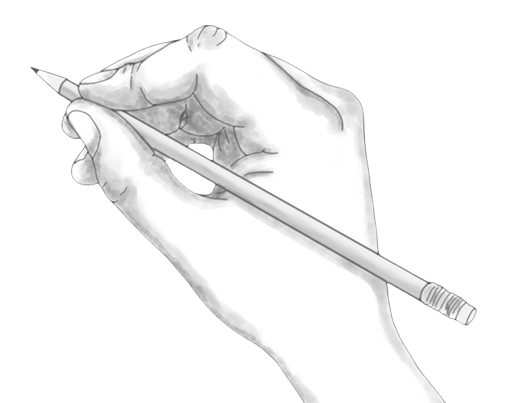
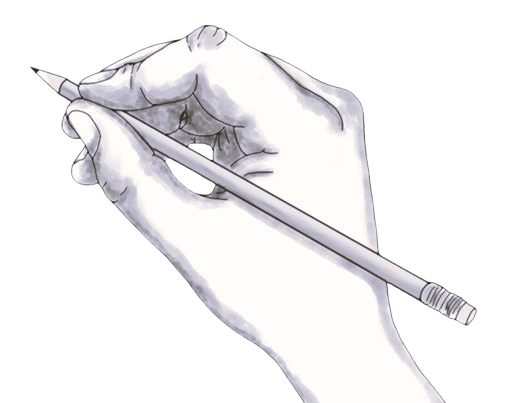
Update project images and styles for improved display and responsiveness

diff --git a/styles.css b/styles.css
@@ -474,16 +474,23 @@ a.project-card, a.project-card * {
     flex: 1;
 }
 
-.project-card:nth-child(1) .project-date {
-    padding: 0;
-    margin: 0;
-    white-space: nowrap;
+.project-card:nth-child(1) .project-image {
+    /* Preserve the image aspect ratio and avoid squashing.
+       Use background-size: contain and a padding-top to set an aspect ratio (16:9).
+       The image will be centered and won't be stretched. */
+    background-image: url('assets/images/caméra%20qui%20filme.jpg');
+    background-size: contain;
+    background-position: center center;
+    background-repeat: no-repeat;
+    color: #06b6d4;
+    width: 100%;
+    height: auto;
+    padding-top: 56.25%; /* 16:9 ratio to avoid squash */
+    max-height: 60vh;
+    display: flex;
+    align-items: center;
+    justify-content: center;
 }
-
-.project-card:nth-child(1) p {
-    color: #1e293b;
-}
-
 .project-card:hover {
     transform: translateY(-10px);
     box-shadow: var(--shadow-lg);
@@ -614,8 +621,8 @@ a.project-card, a.project-card * {
 
 .project-image {
     width: 100%;
-    height: 300px;
-    max-height: 45vh;
+    height: 220px;
+    max-height: 35vh;
     background: linear-gradient(135deg, rgba(var(--primary-rgb), 0.2), rgba(var(--accent-rgb), 0.2));
     display: flex;
     align-items: center;
@@ -644,8 +651,17 @@ a.project-card, a.project-card * {
 }
 
 .project-card:nth-child(1) .project-image {
-    background: url('assets/images/caméra%20qui%20filme.jpg') center/cover no-repeat;
+    /* Show the ALC image fully without cropping; keep a compact height
+       using a width-based aspect container (padding-top). */
+    background-image: url('assets/images/caméra%20qui%20filme.jpg');
+    background-repeat: no-repeat;
+    background-position: center;
+    background-size: contain;
     color: #06b6d4;
+    /* Use a compact aspect-ratio container so the image isn't too tall */
+    height: auto;
+    max-height: none;
+    padding-top: 32%;
 }
 
 .project-card:nth-child(2) {
@@ -680,25 +696,21 @@ a.project-card, a.project-card * {
 }
 
 .project-card:nth-child(2) .project-image {
-    /* Use the same frame as other project images; image placed via <img> inside.
-       Keep background-color but remove background-image to avoid overlap. */
-    background: none;
-    background-color: rgba(var(--primary-rgb), 0.08);
-    height: 300px; /* same height as default .project-image */
+    /* Use a single background-image like the ALC card (no colored square). */
+    background-image: url('assets/images/TITLE.png');
+    background-repeat: no-repeat;
+    background-position: center;
+    background-size: contain;
     color: var(--primary-color);
+    height: auto;
+    max-height: none;
+    padding-top: 32%;
     overflow: hidden;
 }
 
 /* Ensure the inline image fills the project-image box and is cropped from the top */
 .project-card:nth-child(2) .project-image img {
-    width: 100% !important;
-    height: 100% !important;
-    /* Fill the entire .project-image frame while keeping aspect ratio; crop if necessary */
-    object-fit: cover;
-    object-position: top center;
-    display: block;
-    transform: none;
-    will-change: auto;
+    display: none !important; /* background-image used instead for full, un-cropped display */
 }
 
 .project-card:nth-child(3) {
@@ -736,8 +748,15 @@ a.project-card, a.project-card * {
 }
 
 .project-card:nth-child(3) .project-image {
-    background: linear-gradient(135deg, rgba(196, 132, 252, 0.5), rgba(167, 139, 250, 0.5));
+    /* Subtle decorative gradient placed behind the image so colors remain natural */
+    background-image: url('assets/images/drawing_hand.png'), linear-gradient(135deg, rgba(196, 132, 252, 0.06), rgba(167, 139, 250, 0.06));
+    background-repeat: no-repeat, no-repeat;
+    background-position: center, center;
+    background-size: contain, cover;
     color: #c084fc;
+    height: auto;
+    max-height: none;
+    padding-top: 32%;
 }
 
 .project-card:nth-child(4) {
@@ -845,7 +864,7 @@ a.project-card, a.project-card * {
 .project-card p {
     padding: 1rem 1.5rem;
     color: var(--text-light);
-    font-size: 0.95rem;
+    font-size: 1.15rem;
 }
 
 .project-tags {
@@ -853,6 +872,39 @@ a.project-card, a.project-card * {
     display: flex;
     flex-wrap: wrap;
     gap: 0.5rem;
+}
+
+/* Center headers, dates, tags and description text inside project cards */
+.project-card .project-header {
+    display: flex;
+    flex-direction: column;
+    align-items: center;
+    justify-content: center;
+    text-align: center;
+    gap: 0.4rem;
+    padding: 1rem 1.5rem;
+}
+
+.project-date {
+    display: flex;
+    align-items: center;
+    justify-content: center;
+    gap: 0.5rem;
+}
+
+.project-tags {
+    justify-content: center;
+    padding-bottom: 1rem;
+}
+
+.project-card p {
+    text-align: center;
+}
+
+/* Make description text of the first two project cards bolder */
+.project-card:nth-child(1) p,
+.project-card:nth-child(2) p {
+    font-weight: 600;
 }
 
 .tag {
@@ -880,9 +932,9 @@ a.project-card, a.project-card * {
 }
 
 .tag-image {
-    height: 2.5rem;
+    height: 3.5rem;
     width: auto;
-    max-width: 3.5rem;
+    max-width: 5rem;
     display: inline-block;
     vertical-align: middle;
     transition: all 0.3s ease;
@@ -1262,7 +1314,7 @@ a.project-card, a.project-card * {
 
     .about-text p,
     .project-card p {
-        font-size: 0.95rem;
+        font-size: 1.05rem;
     }
 
     .competence-category {
@@ -1966,11 +2018,16 @@ a.project-card, a.project-card * {
 
 @media (min-width: 760px) {
     .projects-grid {
-        grid-template-columns: repeat(2, 1fr) !important;
+        grid-template-columns: 1fr !important;
     }
     .steps-grid {
         grid-template-columns: repeat(2, 1fr) !important;
     }
+}
+
+/* Force single stacked column for project cards on all screen sizes */
+.projects-grid {
+    grid-template-columns: 1fr !important;
 }
 
 /* Dynamic title for gallery description */
@@ -2211,4 +2268,29 @@ a {
     .project-image img, .book-image-wrapper img { max-height: 75vh; height: auto; }
     video.project-video { max-height: 75vh; }
 }
+
+/* FINAL OVERRIDES: make cards slightly less tall than before */
+.project-card {
+    min-height: 48vh !important;
+}
+.project-card:nth-child(1) { min-height: calc(44vh + 90px) !important; }
+.project-card:nth-child(2) { min-height: calc(40vh + 90px) !important; }
+.project-card:nth-child(3) { min-height: calc(38vh + 90px) !important; }
+
+@media (max-width: 800px) {
+    .project-card { min-height: 45vh !important; }
+    .project-card:nth-child(1), .project-card:nth-child(2), .project-card:nth-child(3) {
+        min-height: calc(26vh + 90px) !important;
+    }
+}
+
+/* Reduce card width globally and center cards without changing other layouts */
+.project-card {
+    max-width: 4000px;
+    width: 75vw;
+    margin-left: auto;
+    margin-right: auto;
+}
+
+
 

diff --git a/index.html b/index.html
@@ -78,7 +78,6 @@
                         <p class="project-date"><img src="assets/icons/calendar.svg" alt="Année" class="date-icon">2026</p>
                     </div>
                     <div class="project-image">
-                        <img src="assets/images/TITLE.png" alt="TITLE" style="width:100%;height:auto;border-radius:8px;">
                     </div>
                     <p>Codage d'un jeu 2D de type RPG en groupe de 3 en tant que projet de terminale en NSI.</p>
                     <div class="project-tags">
@@ -94,7 +93,6 @@
                         <p class="project-date"><img src="assets/icons/calendar.svg" alt="Année" class="date-icon">2023-2026</p>
                     </div>
                     <div class="project-image">
-                        <img src="assets/images/drawing_hand.png" alt="Dessin main" style="width:85%;height:auto;border-radius:8px;display:block;margin:0 auto;">
                     </div>
                     <p>Retrouvez ici mes créations artistiques et projets personnels dans le domaine du dessin et du graphisme.</p>
                     <div class="project-tags">
